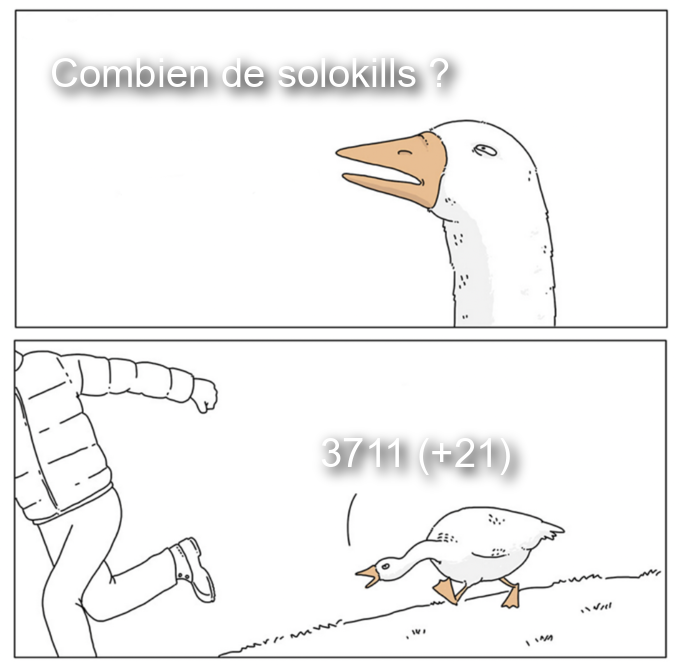
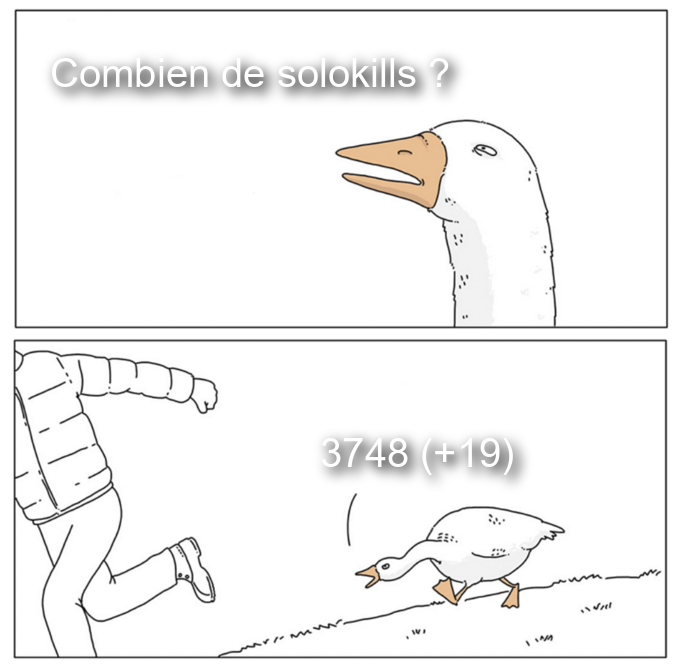
Fix ecart_kills jungle position

Changed region(s): [[0.525, 0.6587, 0.7721, 0.7186]]

diff --git a/fonctions/match/matchlol.py b/fonctions/match/matchlol.py
@@ -156,13 +156,14 @@ class MatchLol(
             if self.moba_ok:
                 await self._load_rank_data()
                 await self._calculate_team_averages()
-
-                await self.prepare_data_moba()
-                # except Exception:
-                #     try:
-                #         await self.prepare_data_ugg()
-                #     except Exception:
-                #         pass
+                try:
+                    
+                    await self.prepare_data_moba()
+                except Exception:
+                    try:
+                        await self.prepare_data_ugg()
+                    except Exception:
+                        pass
 
             # # 6. Timeline
             # if self.thisQ not in ['ARENA 2v2', 'SWARM']:

diff --git a/fonctions/match/matchlol_team.py b/fonctions/match/matchlol_team.py
@@ -233,7 +233,7 @@ class MatchLolTeamData:
 
         self.ecart_jgl_gold = calc_ecart('JUNGLE', self.thisGoldListe)
         self.ecart_jgl_cs = calc_ecart('JUNGLE', [m + j for m, j in zip(self.thisMinionListe, self.thisJungleMonsterKilledListe)])
-        self.ecart_jgl_kills = calc_ecart('JUNGLE', self.thisDamageListe)
+        self.ecart_jgl_kills = calc_ecart('JUNGLE', self.thisKillsListe)
         self.ecart_jgl_deaths = calc_ecart('JUNGLE', self.thisDeathsListe)
         self.ecart_jgl_assists = calc_ecart('JUNGLE', self.thisAssistsListe)
         self.ecart_jgl_dmg = calc_ecart('JUNGLE', self.thisDamageListe)
